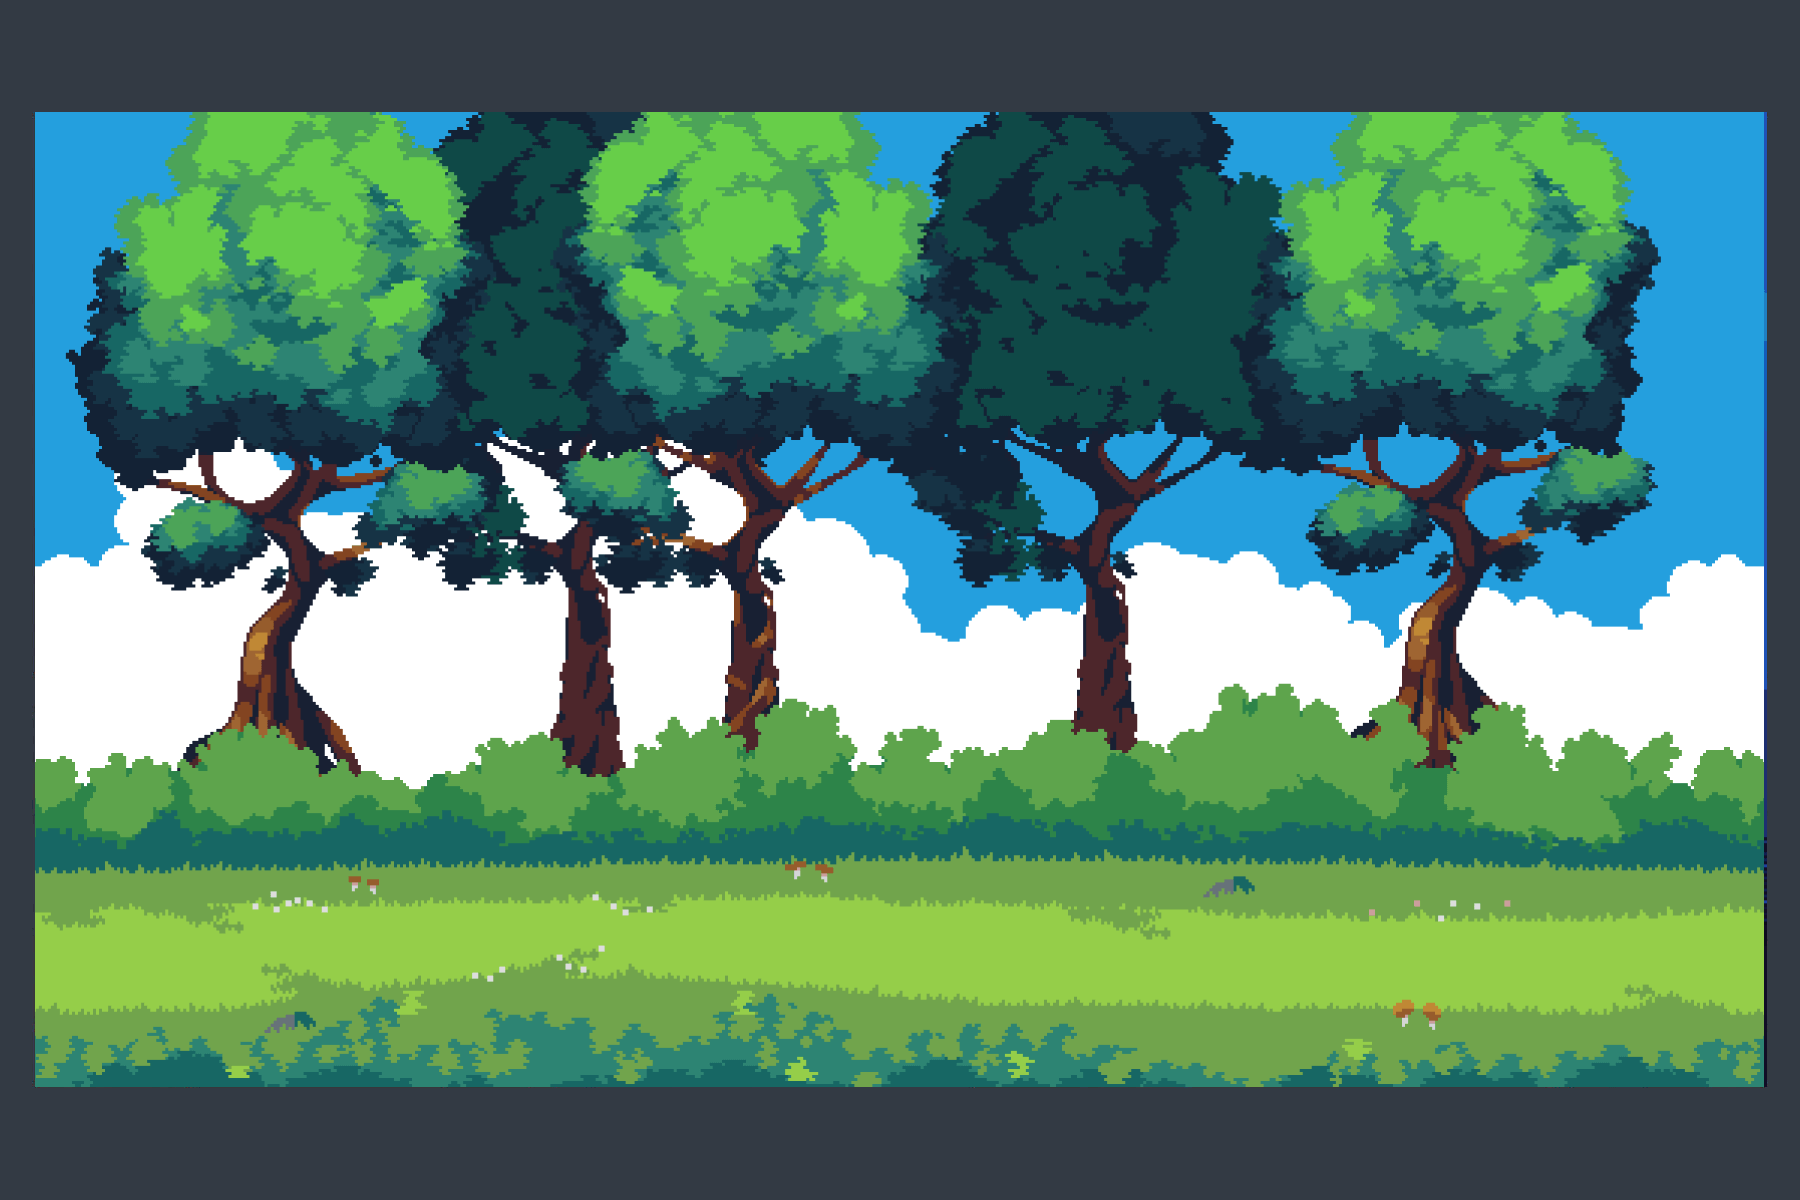
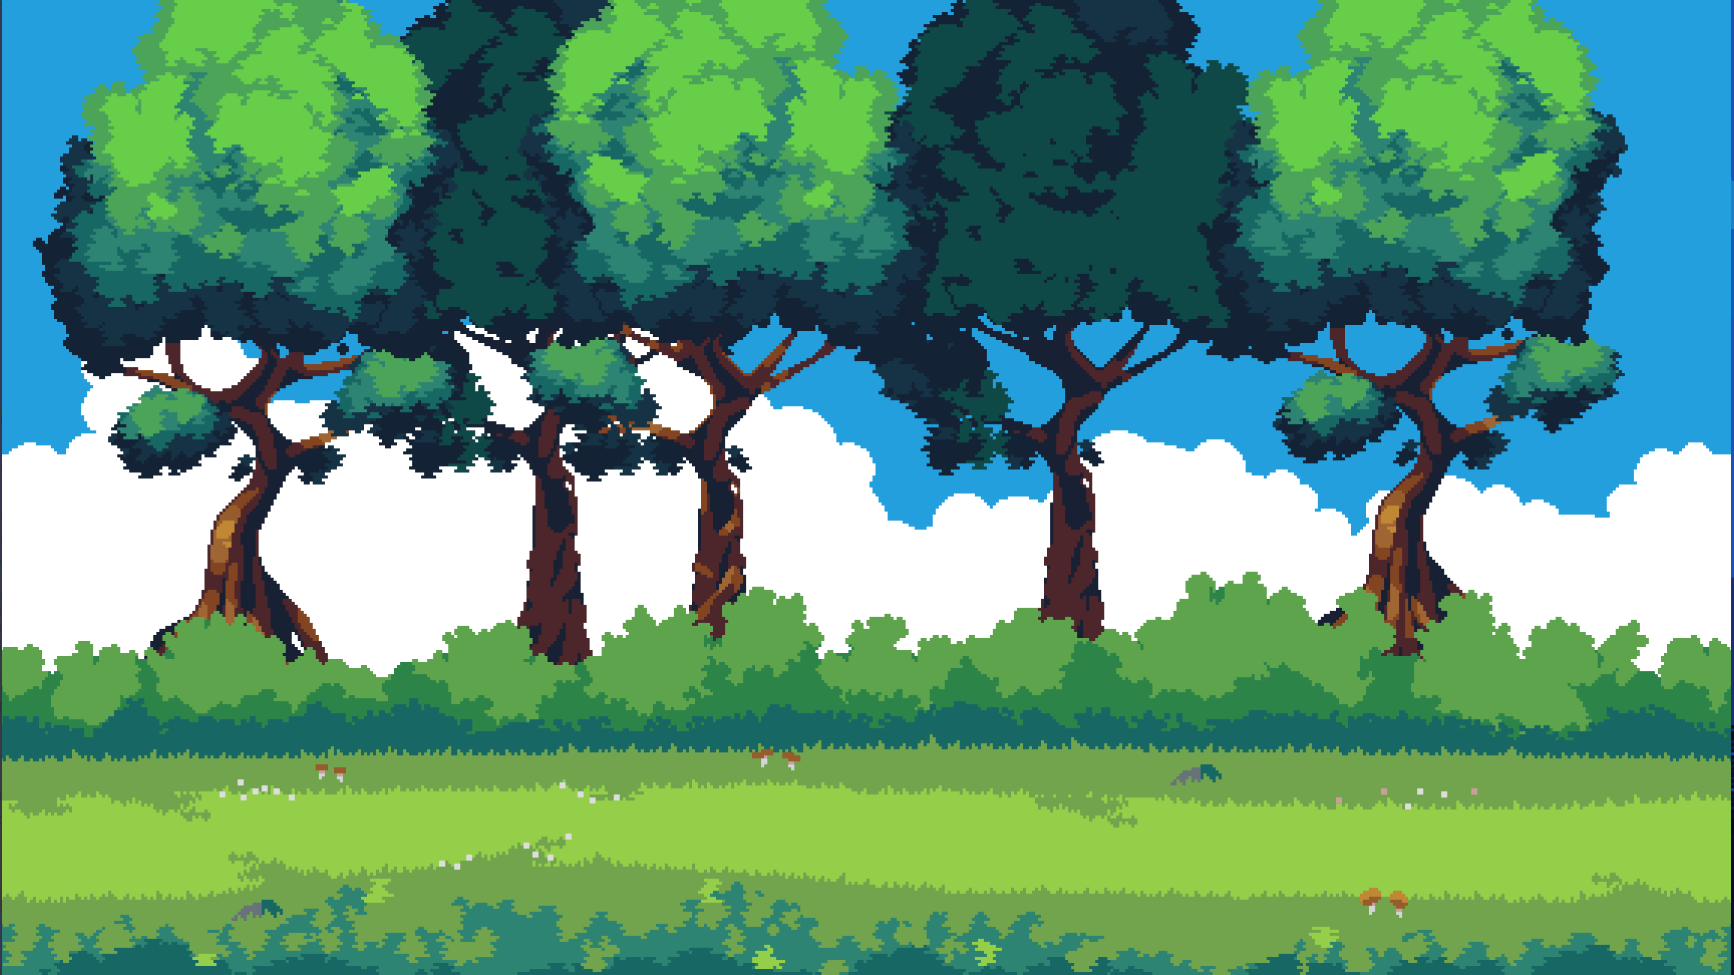
Fix grey artifacts on title, runner sprite, and background
- Crop baked-in dark border from forest PNG so background fills
  edge-to-edge without oversizing
- Remove grey pixels from runner sprite with smarter threshold
- Tighten text drop-shadows to crisp 1px outlines (no blur halo)

Claude-Session: https://claude.ai/code/session_015yvVxGH9442AetNJd1vDgS

diff --git a/app/globals.css b/app/globals.css
@@ -53,7 +53,7 @@ html, body {
   overflow: visible;
   background-color: #3b6e2c;
   background-image: url('/img/Forest-and-Trees-Free-Pixel-Backgrounds2.png');
-  background-size: 104% 104%;
+  background-size: 100% 100%;
   background-position: center;
   background-repeat: no-repeat;
   display: flex;
@@ -97,7 +97,7 @@ html, body {
   -webkit-text-fill-color: transparent;
   background-clip: text;
   text-shadow: none;
-  filter: drop-shadow(1px 1px 0 rgba(0, 0, 0, 0.8)) drop-shadow(-1px -1px 0 rgba(0, 0, 0, 0.8)) drop-shadow(0 0 6px rgba(0, 0, 0, 0.6));
+  filter: drop-shadow(1px 1px 0 #000) drop-shadow(-1px -1px 0 #000) drop-shadow(1px -1px 0 #000) drop-shadow(-1px 1px 0 #000);
 }
 
 .subtitle {
@@ -329,7 +329,7 @@ html, body {
   font-size: 12px;
   letter-spacing: 4px;
   color: var(--teal);
-  text-shadow: 1px 1px 0 rgba(0, 0, 0, 0.8), -1px -1px 0 rgba(0, 0, 0, 0.8), 1px -1px 0 rgba(0, 0, 0, 0.8), -1px 1px 0 rgba(0, 0, 0, 0.8), 0 0 6px rgba(0, 0, 0, 0.6);
+  text-shadow: 1px 1px 0 #000, -1px -1px 0 #000, 1px -1px 0 #000, -1px 1px 0 #000;
 }
 
 .drink-counter {
@@ -337,7 +337,7 @@ html, body {
   font-size: clamp(32px, 8vw, 64px);
   letter-spacing: 3px;
   color: var(--gold);
-  text-shadow: 1px 1px 0 rgba(0, 0, 0, 0.8), -1px -1px 0 rgba(0, 0, 0, 0.8), 1px -1px 0 rgba(0, 0, 0, 0.8), -1px 1px 0 rgba(0, 0, 0, 0.8), 0 0 6px rgba(0, 0, 0, 0.6);
+  text-shadow: 1px 1px 0 #000, -1px -1px 0 #000, 1px -1px 0 #000, -1px 1px 0 #000;
   line-height: 1;
 }
 
